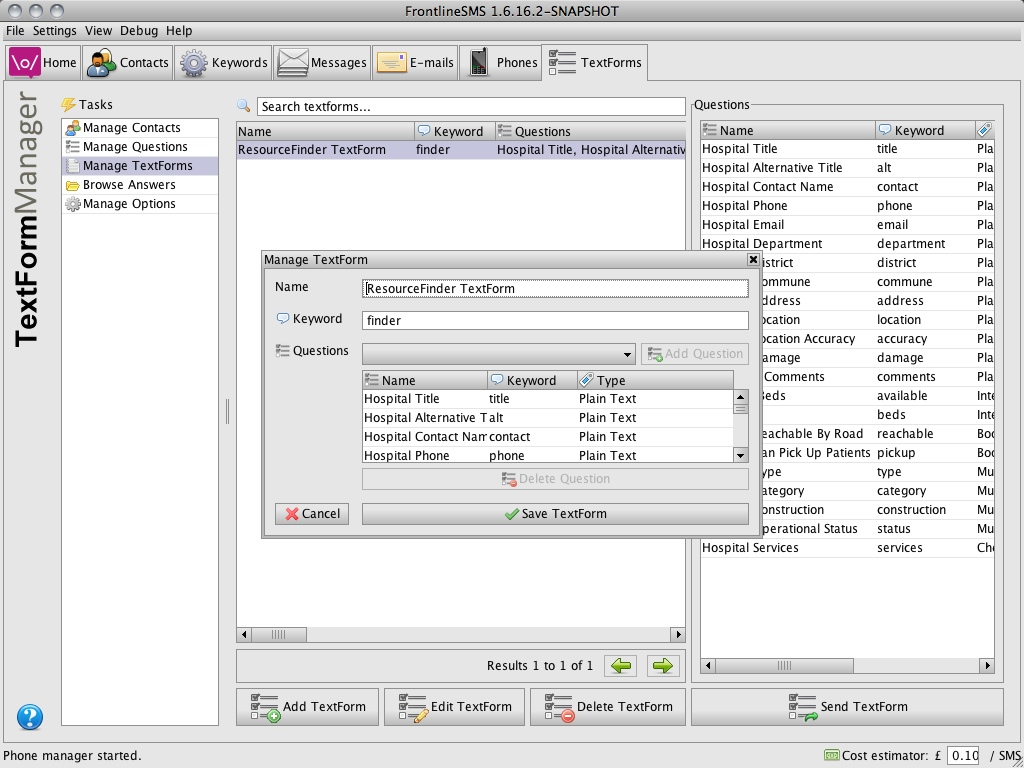
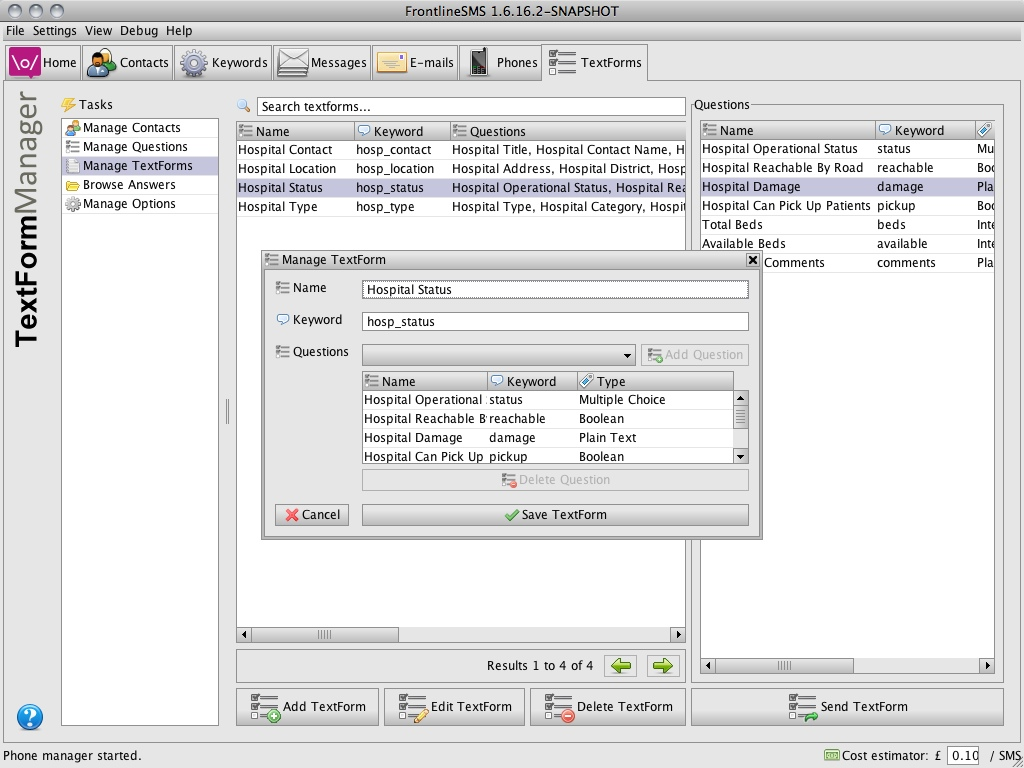
Fixed textform questions collection bug

Changed region(s): [[0.2188, 0.1562, 0.9688, 0.7188], [0.2812, 0.8125, 0.4062, 0.8438]]

diff --git a/help/textforms.htm b/help/textforms.htm
@@ -87,6 +87,9 @@
 			<h3>
 				Clicking the Add Question button will present the Question dialog allowing you to enter the question Name, Keyword, Schema, Choices and Phrase.
 				To edit an existing question, double-click a question from the list or select a question then click the Edit Question button.
+			</h3>
+			<img border="0" src="img/textforms-add-question.jpg" vspace="5">
+			<h3>
 				<ul>
 					<li><span class="highlight">Name</span> - the name of the question</li>
 					<li><span class="highlight">Keyword</span> - the keyword used to distinguish this question</li>
@@ -95,8 +98,7 @@
 					<li><span class="highlight">Choices</span> - the options for Checklist and Multiple Choice type </li>
 					<li><span class="highlight">Phrase</span> - the question phrase used sent to the user asking what they are answering</li>
 				</ul>
-			</h3>
-			<img border="0" src="img/textforms-add-question.jpg" vspace="5">
+			</h3>	
 			
 			<h2>Manage TextForms</h2>
 			<h3>
@@ -112,13 +114,15 @@
 			<h3>
 				Clicking the Add TextForm button will present the TextForm dialog allowing you to enter the textform Name, Keyword and Questions.
 				To edit an existing textform, double-click a textform from the list or select a textform then click the Edit TextForm button.
-				<ul>
-					<li><span class="highlight">Name</span> - the textform name</li>
-					<li><span class="highlight">Keyword</span> - the keyword used to distinguish this textform</li>
-					<li><span class="highlight">Question</span> - add or delete questions associated with this TextForm</li>
-				</ul>
 			</h3>
 			<img border="0" src="img/textforms-add-textform.jpg" vspace="5">
+			<h3>
+				<ul>
+					<li><span class="highlight">Name</span> - the human readable name</li>
+					<li><span class="highlight">Keyword</span> - the keyword used to trigger this textform</li>
+					<li><span class="highlight">Question</span> - add or delete questions to the series</li>
+				</ul>
+			</h3>	
 			
 			<h2>Browse Answers</h2>
 			<h3>

diff --git a/src/main/java/net/frontlinesms/plugins/textforms/upload/ResourceFinderUploader.java b/src/main/java/net/frontlinesms/plugins/textforms/upload/ResourceFinderUploader.java
@@ -142,48 +142,58 @@ public class ResourceFinderUploader extends DocumentUploader {
 		return document.asXML();
 	}
 	
+	@SuppressWarnings("unused")
 	public boolean createResourceFinderQuestions() {
 		try {
 			this.ui.removeAll(this.getTable());
-			List<Question> questions = new ArrayList<Question>();
 			//PLAIN TEXT
-			createPlainTextQuestion(questions, "Hospital Title", "title", "What is the hospital's title?", "title");
-			createPlainTextQuestion(questions, "Hospital Alternative Title", "alt", "What is the hospital's alternative title?", "alt_title");
-			createPlainTextQuestion(questions, "Hospital Contact Name", "contact", "What is hospital contact name?", "contact_name");
-			createPlainTextQuestion(questions, "Hospital Phone", "phone", "What is hospital phone number?", "phone");
-			createPlainTextQuestion(questions, "Hospital Email", "email", "What is hospital email address?", "email");
-			createPlainTextQuestion(questions, "Hospital Department", "department", "What is the hospital department?", "department");
-			createPlainTextQuestion(questions, "Hospital District", "district", "What is the hospital district?", "district");
-			createPlainTextQuestion(questions, "Hospital Commune", "commune", "What is the hospital commune?", "commune");
-			createPlainTextQuestion(questions, "Hospital Address", "address", "What is hospital address?", "address");
-			createPlainTextQuestion(questions, "Hospital Location", "location", "What is hospital location (latitude,longitude)?", "location");
-			createPlainTextQuestion(questions, "Hospital Location Accuracy", "accuracy", "What is hospital location accuracy?", "accuracy");
-			createPlainTextQuestion(questions, "Hospital Damage", "damage", "What is the hospital damage?", "damage");
-			createPlainTextQuestion(questions, "Additional Comments", "comments", "Additional comments?", "comments");
+			Question title = createPlainTextQuestion("Hospital Title", "title", "What is the hospital's title?", "title");
+			Question alt = createPlainTextQuestion("Hospital Alternative Title", "alt", "What is the hospital's alternative title?", "alt_title");
+			Question contact = createPlainTextQuestion("Hospital Contact Name", "contact", "What is hospital contact name?", "contact_name");
+			Question phone = createPlainTextQuestion("Hospital Phone", "phone", "What is hospital phone number?", "phone");
+			Question email = createPlainTextQuestion("Hospital Email", "email", "What is hospital email address?", "email");
+			Question department = createPlainTextQuestion("Hospital Department", "department", "What is the hospital department?", "department");
+			Question district = createPlainTextQuestion("Hospital District", "district", "What is the hospital district?", "district");
+			Question commune = createPlainTextQuestion("Hospital Commune", "commune", "What is the hospital commune?", "commune");
+			Question address = createPlainTextQuestion("Hospital Address", "address", "What is hospital address?", "address");
+			Question location = createPlainTextQuestion("Hospital Location", "location", "What is hospital location (latitude,longitude)?", "location");
+			Question accuracy = createPlainTextQuestion("Hospital Location Accuracy", "accuracy", "What is hospital location accuracy?", "accuracy");
+			Question damage = createPlainTextQuestion("Hospital Damage", "damage", "What is the hospital damage?", "damage");
+			Question comments = createPlainTextQuestion("Additional Comments", "comments", "Additional comments?", "comments");
 			//INTEGER
-			createIntegerQuestion(questions, "Available Beds", "available", "How many beds does the hospital have available?", "available_beds");
-			createIntegerQuestion(questions, "Total Beds", "beds", "The total number of hospital beds?", "total_beds");
+			Question available = createIntegerQuestion("Available Beds", "available", "How many beds does the hospital have available?", "available_beds");
+			Question beds = createIntegerQuestion("Total Beds", "beds", "The total number of hospital beds?", "total_beds");
 			//BOOLEAN
-			createBooleanQuestion(questions, "Hospital Reachable By Road", "reachable", "Is the hospital reachable by road?", "reachable_by_road");
-			createBooleanQuestion(questions, "Hospital Can Pick Up Patients", "pickup", "Can the hospital pick up patients?", "can_pick_up_patients");
+			Question reachable = createBooleanQuestion("Hospital Reachable By Road", "reachable", "Is the hospital reachable by road?", "reachable_by_road");
+			Question pickup = createBooleanQuestion("Hospital Can Pick Up Patients", "pickup", "Can the hospital pick up patients?", "can_pick_up_patients");
 			//MULTICHOICE
-			createMultiChoiceQuestion(questions, "Hospital Type", "type", "What is the hospital type?", "organization_type",
+			Question type = createMultiChoiceQuestion("Hospital Type", "type", "What is the hospital type?", "organization_type",
 										new String [] {"PUBLIC", "FOR_PROFIT", "UNIVERSITY", "COMMUNITY", "NGO", "FAITH_BASED", "MILITARY", "MIXED"});
-			createMultiChoiceQuestion(questions, "Hospital Category", "category", "What is the hospital category?", "category",
+			Question category = createMultiChoiceQuestion("Hospital Category", "category", "What is the hospital category?", "category",
 										new String [] {"HOSPITAL", "CLINIC", "MOBILE_CLINIC", "DISPENSARY"});
-			createMultiChoiceQuestion(questions, "Hospital Construction", "construction", "What is the hospital construction?", "construction",
+			Question construction = createMultiChoiceQuestion("Hospital Construction", "construction", "What is the hospital construction?", "construction",
 										new String [] {"REINFORCED_CONCRETE", "UNREINFORCED_MASONRY", "WOOD_FRAME", "ADOBE"});
-			createMultiChoiceQuestion(questions, "Hospital Operational Status", "status", "What is the hospital operational status?", "operational_status",
+			Question status = createMultiChoiceQuestion("Hospital Operational Status", "status", "What is the hospital operational status?", "operational_status",
 										new String [] {"OPERATIONAL", "NO_SURGICAL_CAPACITY", "FIELD_HOSPITAL", "FIELD_WITH_HOSPITAL", "CLOSED_OR_CLOSING"});
 			//CHECKLIST
-			createChecklistQuestion(questions, "Hospital Services", "services", "What services does the hospital offer?", "services", 
+			Question services = createChecklistQuestion("Hospital Services", "services", "What services does the hospital offer?", "services", 
 									new String [] {"GENERAL_SURGERY", "ORTHOPEDICS", "NEUROSURGERY", "VASCULAR_SURGERY", 
 												   "INTERNAL_MEDICINE", "CARDIOLOGY", "INFECTIOUS_DISEASE", "PEDIATRICS", 
 												   "POSTOPERATIVE_CARE", "REHABILITATION", "OBSTETRICS_GYNECOLOGY", "MENTAL_HEALTH",
 												   "DIALYSIS", "LAB", "X_RAY", "CT_SCAN", "BLOOD_BANK", "MORTUARY_SERVICES"});
-			//textform
-			TextForm textform = new TextForm("ResourceFinder TextForm", "finder", questions);
-			this.getTextFormDao().saveTextForm(textform);
+			//TEXTFORM
+			TextForm contactForm = new TextForm("Hospital Contact", "hosp_contact", Arrays.asList(title, contact, phone, email));
+			this.getTextFormDao().saveTextForm(contactForm);
+			
+			TextForm locationForm = new TextForm("Hospital Location", "hosp_location", Arrays.asList(address, district, location, accuracy));
+			this.getTextFormDao().saveTextForm(locationForm);
+			
+			TextForm statusForm = new TextForm("Hospital Status", "hosp_status", Arrays.asList(status, reachable, damage, pickup, beds, available, comments));
+			this.getTextFormDao().saveTextForm(statusForm);
+			
+			TextForm typeForm = new TextForm("Hospital Type", "hosp_type", Arrays.asList(type, category, construction, services));
+			this.getTextFormDao().saveTextForm(typeForm);
+			
 			return true;
 		}
 		catch(Exception ex) {
@@ -192,44 +202,42 @@ public class ResourceFinderUploader extends DocumentUploader {
 		return false;
 	}
 	
-	protected Question createPlainTextQuestion(List<Question> questions, String name, String keyword, String infoSnippet, String schema) {
-		return createQuestion(questions, name, keyword, infoSnippet, QuestionType.PLAINTEXT, schema, null);
+	protected Question createPlainTextQuestion(String name, String keyword, String infoSnippet, String schema) {
+		return createQuestion(name, keyword, infoSnippet, QuestionType.PLAINTEXT, schema, null);
 	}
 	
-	protected Question createDateQuestion(List<Question> questions, String name, String keyword, String infoSnippet, String schema) {
-		return createQuestion(questions, name, keyword, infoSnippet, QuestionType.DATE, schema, null);
+	protected Question createDateQuestion(String name, String keyword, String infoSnippet, String schema) {
+		return createQuestion(name, keyword, infoSnippet, QuestionType.DATE, schema, null);
 	}
 	
-	protected Question createIntegerQuestion(List<Question> questions, String name, String keyword, String infoSnippet, String schema) {
-		return createQuestion(questions, name, keyword, infoSnippet, QuestionType.INTEGER, schema, null);
+	protected Question createIntegerQuestion(String name, String keyword, String infoSnippet, String schema) {
+		return createQuestion(name, keyword, infoSnippet, QuestionType.INTEGER, schema, null);
 	}
 	
-	protected Question createBooleanQuestion(List<Question> questions, String name, String keyword, String infoSnippet, String schema) {
-		return createQuestion(questions, name, keyword, infoSnippet, QuestionType.BOOLEAN, schema, null);
+	protected Question createBooleanQuestion(String name, String keyword, String infoSnippet, String schema) {
+		return createQuestion(name, keyword, infoSnippet, QuestionType.BOOLEAN, schema, null);
 	}
 	
-	protected Question createMultiChoiceQuestion(List<Question> questions, String name, String keyword, String infoSnippet, String schema, String [] choices) {
-		return createQuestion(questions, name, keyword, infoSnippet, QuestionType.MULTICHOICE, schema, choices);
+	protected Question createMultiChoiceQuestion(String name, String keyword, String infoSnippet, String schema, String [] choices) {
+		return createQuestion(name, keyword, infoSnippet, QuestionType.MULTICHOICE, schema, choices);
 	}
 	
-	protected Question createChecklistQuestion(List<Question> questions, String name, String keyword, String infoSnippet, String schema, String [] choices) {
-		return createQuestion(questions, name, keyword, infoSnippet, QuestionType.CHECKLIST, schema, choices);
+	protected Question createChecklistQuestion(String name, String keyword, String infoSnippet, String schema, String [] choices) {
+		return createQuestion(name, keyword, infoSnippet, QuestionType.CHECKLIST, schema, choices);
 	}
 	
-	protected Question createQuestion(List<Question> questions, String name, String keyword, String infoSnippet, String type, String schema, String [] choices) {
+	protected Question createQuestion(String name, String keyword, String infoSnippet, String type, String schema, String [] choices) {
 		try {
 			List<String> choiceList = choices != null ? Arrays.asList(choices) : null;
 			Question question = QuestionFactory.createQuestion(name, keyword, infoSnippet, type, schema, choiceList);
 			this.getQuestionDao().saveQuestion(question);
 			LOG.debug("Question Created [%s, %s, %s, %s]", question.getName(), question.getKeyword(), question.getType(), question.getSchemaName());
 			this.ui.add(getTable(), getRow(question));
-			questions.add(question);
 			return question;
 		} 
 		catch (DuplicateKeyException e) {
 			LOG.error("Question Exists [%s, %s, %s, %s]", name, keyword, type, schema);
 			Question question = this.getQuestionDao().getQuestionForKeyword(keyword);
-			questions.add(question);
 			return question;
 		}
 	}

diff --git a/src/main/java/net/frontlinesms/plugins/textforms/ui/ManageTextFormsDialogHandler.java b/src/main/java/net/frontlinesms/plugins/textforms/ui/ManageTextFormsDialogHandler.java
@@ -126,6 +126,13 @@ public class ManageTextFormsDialogHandler extends ExtendedThinlet implements Thi
 		for(Object item : this.ui.getItems(this.tableQuestions)) {
 			questions.add((Question)this.ui.getAttachedObject(item));
 		}
+		List<String> keywords = new ArrayList<String>();
+		for(String keyword : this.questionDao.getKeywords()) {
+			keywords.add(keyword.toLowerCase());
+		}
+		for(String keyword : this.textformDao.getKeywords()) {
+			keywords.add(keyword.toLowerCase());
+		}
 		if (textformName == null || textformName.length() == 0) {
 			this.ui.alert(TextFormsMessages.getTextFormNameRequired());
 		}
@@ -135,8 +142,11 @@ public class ManageTextFormsDialogHandler extends ExtendedThinlet implements Thi
 		else if (questions.size() == 0) {
 			this.ui.alert(TextFormsMessages.getTextFormQuestionsRequired());
 		}
+		else if (keywords.contains(textformKeyword.toLowerCase())) {
+			this.ui.alert(TextFormsMessages.getTextFormKeywordUnique());
+		}
 		else if (textform == null) {
-			TextForm newTextform = new TextForm(textformName, textformKeyword, questions);
+			TextForm newTextform = new TextForm(textformName, textformKeyword.toLowerCase(), questions);
 			try {
 				this.textformDao.saveTextForm(newTextform);
 				this.ui.remove(this.mainDialog);
@@ -149,7 +159,7 @@ public class ManageTextFormsDialogHandler extends ExtendedThinlet implements Thi
 		}
 		else {
 			textform.setName(textformName);
-			textform.setKeyword(textformKeyword);
+			textform.setKeyword(textformKeyword.toLowerCase());
 			textform.setQuestions(questions);
 			try {
 				this.textformDao.updateTextForm(textform);

diff --git a/src/main/java/net/frontlinesms/plugins/textforms/data/domain/TextForm.java b/src/main/java/net/frontlinesms/plugins/textforms/data/domain/TextForm.java
@@ -15,11 +15,9 @@ import javax.persistence.JoinTable;
 import javax.persistence.ManyToMany;
 
 import org.hibernate.annotations.Cascade;
-import org.hibernate.annotations.CollectionOfElements;
-import org.hibernate.annotations.Fetch;
-import org.hibernate.annotations.FetchMode;
-import org.hibernate.annotations.LazyCollection;
-import org.hibernate.annotations.LazyCollectionOption;
+import org.hibernate.annotations.CollectionId;
+import org.hibernate.annotations.GenericGenerator;
+import org.hibernate.annotations.Type;
 
 import net.frontlinesms.plugins.textforms.data.domain.questions.Question;
 
@@ -83,10 +81,13 @@ public class TextForm {
 		return questionNames.toString();
 	}
 	
-	@CollectionOfElements(targetElement=Question.class, fetch=FetchType.EAGER)
-	@JoinTable(name="textform_questions", joinColumns=@JoinColumn(name="textform_id"))
-	@Column(name="questions")
-	@Fetch(FetchMode.SELECT)
+	@ManyToMany(cascade={CascadeType.PERSIST, CascadeType.MERGE}, fetch=FetchType.EAGER)
+	@Cascade(org.hibernate.annotations.CascadeType.SAVE_UPDATE)
+	@JoinTable(name="textform_questions", 
+	         	joinColumns = @JoinColumn(name="textform_id"), 
+	         	inverseJoinColumns = @JoinColumn(name="question_id"))
+	@GenericGenerator(name="uuid-gen", strategy="uuid")
+    @CollectionId(columns=@Column(name="collection_id"), type=@Type(type="string"), generator="uuid-gen") 
 	private List<Question> questions;
 	
 	public List<Question> getQuestions() {

diff --git a/src/main/java/net/frontlinesms/plugins/textforms/ui/ManageTextFormsPanelHandler.java b/src/main/java/net/frontlinesms/plugins/textforms/ui/ManageTextFormsPanelHandler.java
@@ -24,6 +24,7 @@ import static net.frontlinesms.ui.i18n.InternationalisationUtils.getI18NString;
 import java.awt.Color;
 
 import org.springframework.context.ApplicationContext;
+import org.springframework.dao.DataIntegrityViolationException;
 
 import net.frontlinesms.FrontlineSMS;
 import net.frontlinesms.data.events.DatabaseEntityNotification;
@@ -148,8 +149,14 @@ public class ManageTextFormsPanelHandler extends ExtendedThinlet implements Thin
 		LOG.debug("deleteTextForm");
 		TextForm textform = this.getSelectedTextForm();
 		if (textform != null) {
-			this.textformDao.deleteTextForm(textform);
-			this.queryGenerator.refresh();
+			try{
+				this.textformDao.deleteTextForm(textform);
+				this.queryGenerator.refresh();	
+			}
+			catch(DataIntegrityViolationException ex) {
+				ex.printStackTrace();
+				this.ui.alert(TextFormsMessages.getHandlerErrorDeleteTextForm());
+			}
 		}
 		this.ui.removeConfirmationDialog();
 	}

diff --git a/src/main/java/net/frontlinesms/plugins/textforms/TextFormsMessages.java b/src/main/java/net/frontlinesms/plugins/textforms/TextFormsMessages.java
@@ -62,6 +62,10 @@ public final class TextFormsMessages {
 		return getI18NString("plugins.textforms.handler.error.save.textform");
 	}
 	
+	public static String getHandlerErrorDeleteTextForm() {
+		return getI18NString("plugins.textforms.handler.error.delete.textform");
+	}
+	
 	public static String getMessageAllContacts() {
 		return getI18NString("plugins.textforms.all.contacts");
 	}
@@ -121,6 +125,10 @@ public final class TextFormsMessages {
 	public static String getTextFormKeywordRequired() {
 		return getI18NString("plugins.textforms.textform.keyword.required");
 	} 
+	
+	public static String getTextFormKeywordUnique() {
+		return getI18NString("plugins.textforms.textform.keyword.unique");
+	}
 	
 	public static String getTextFormQuestionsRequired() {
 		return getI18NString("plugins.textforms.textform.questions.required");
